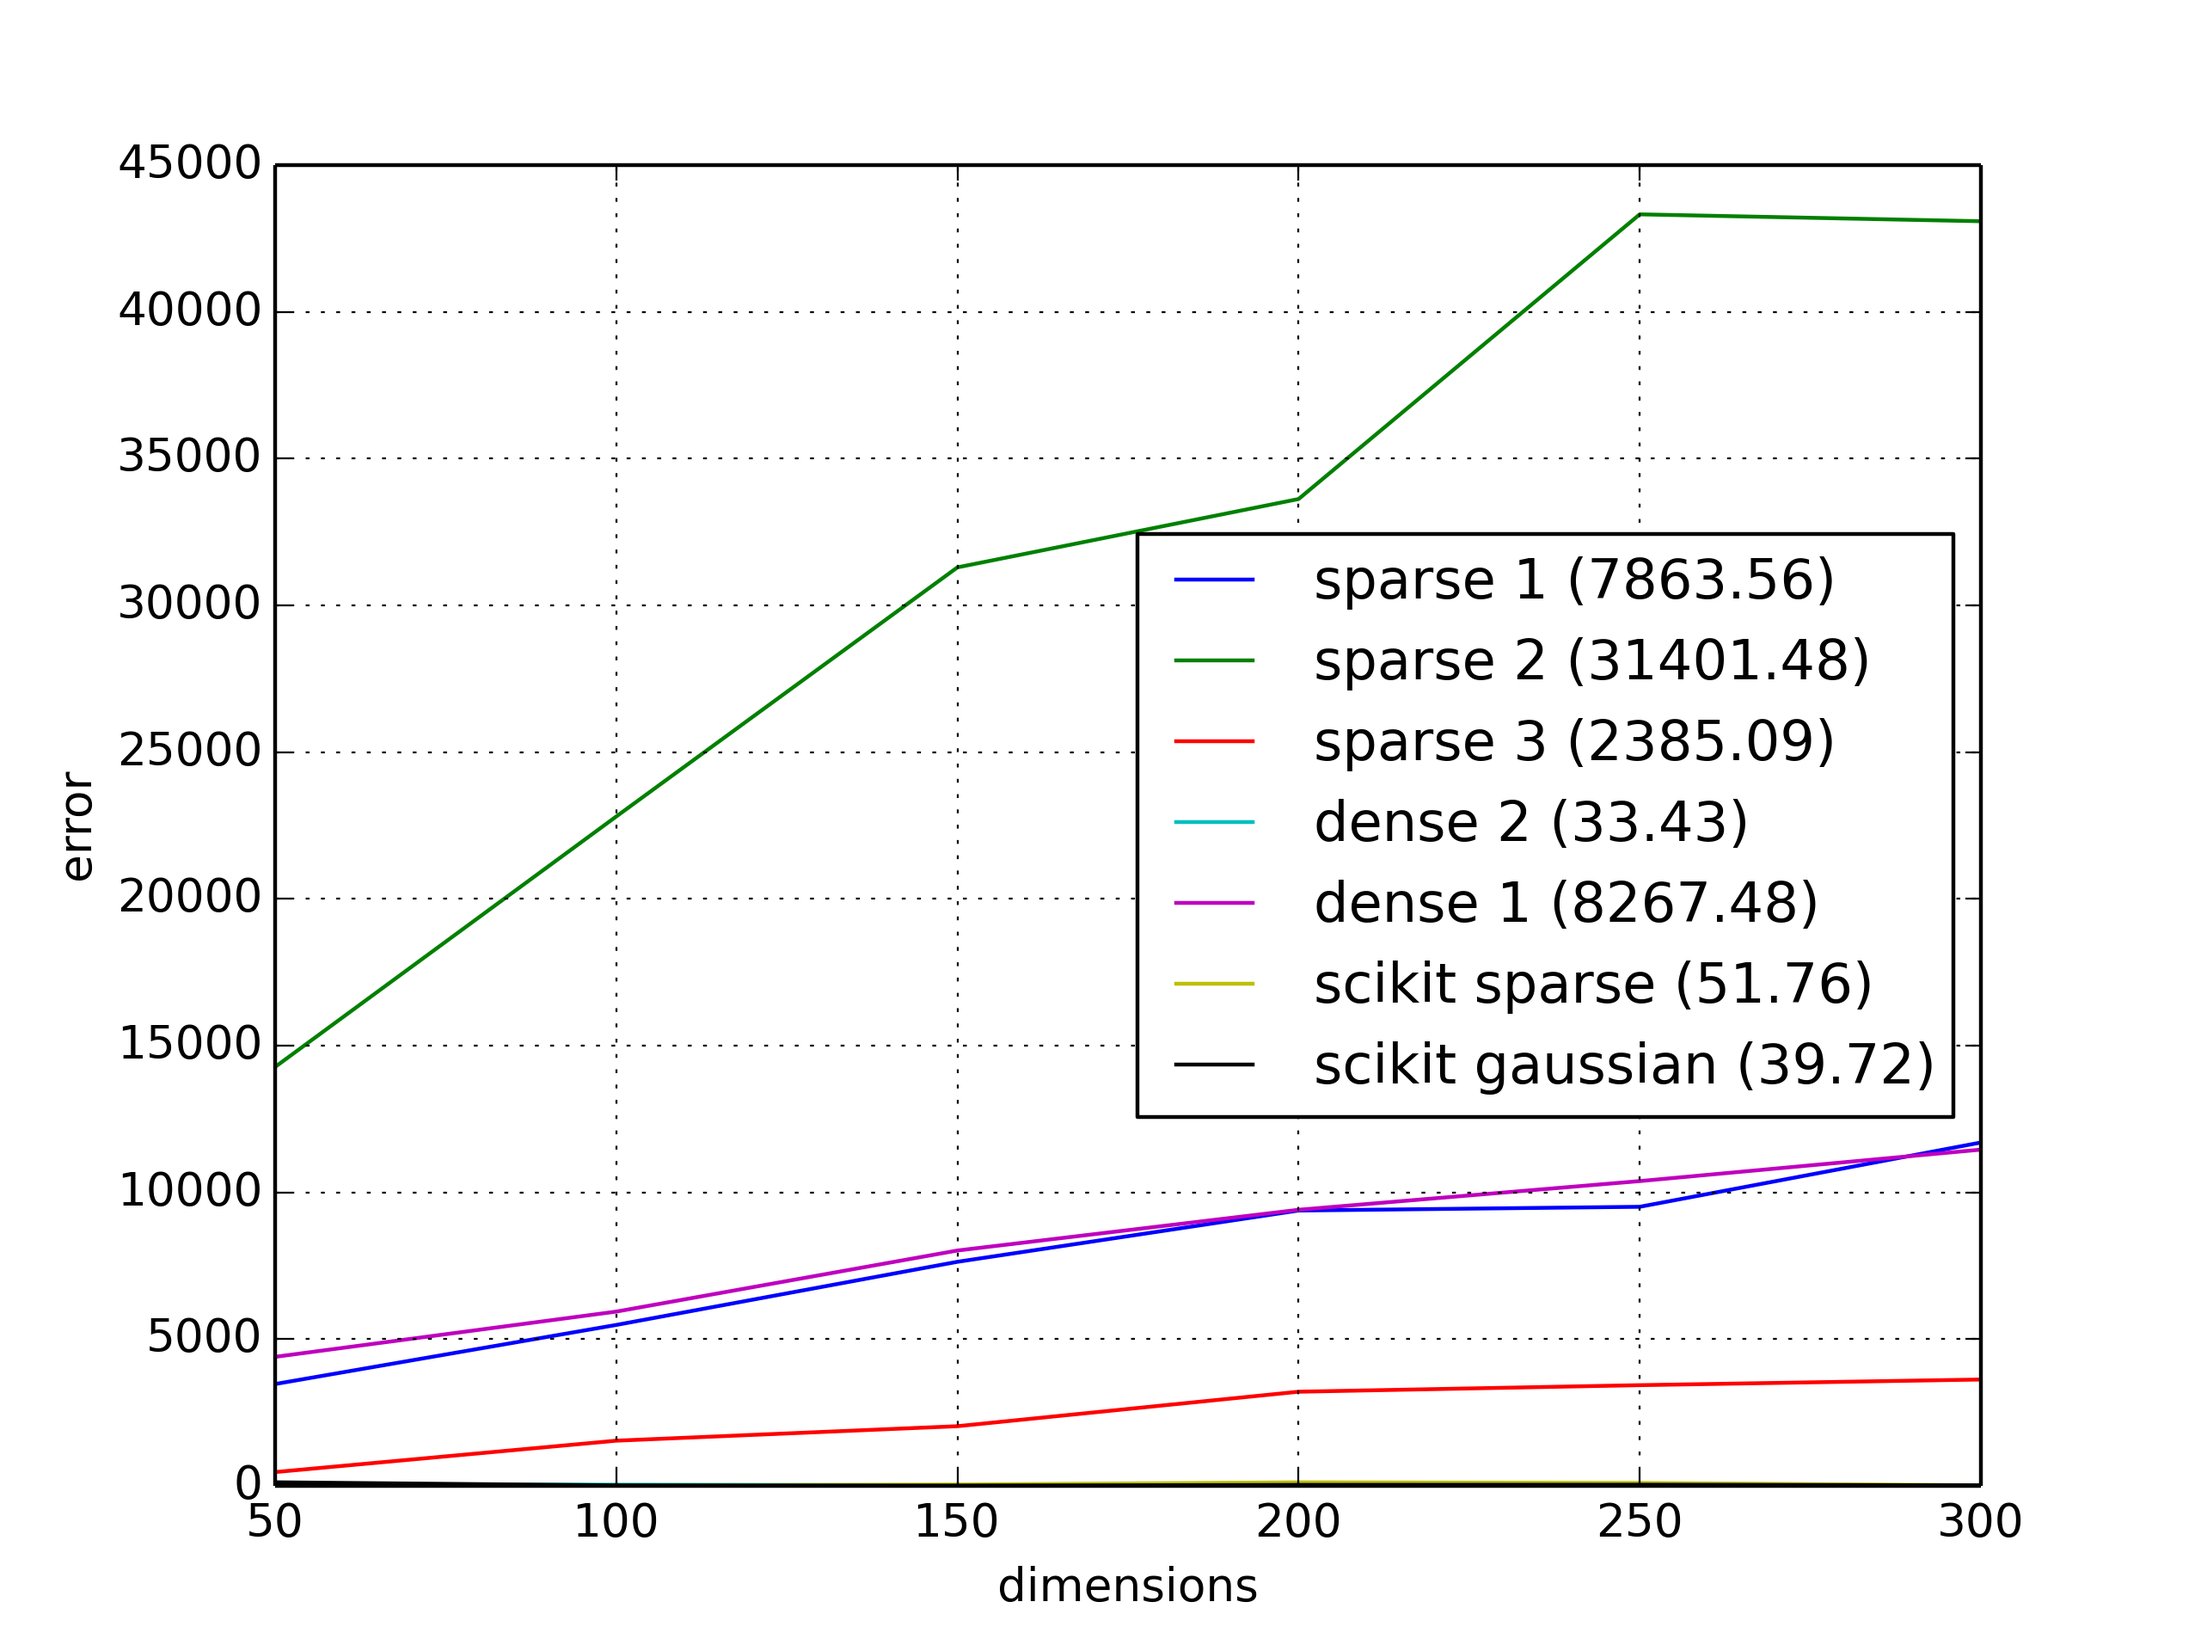
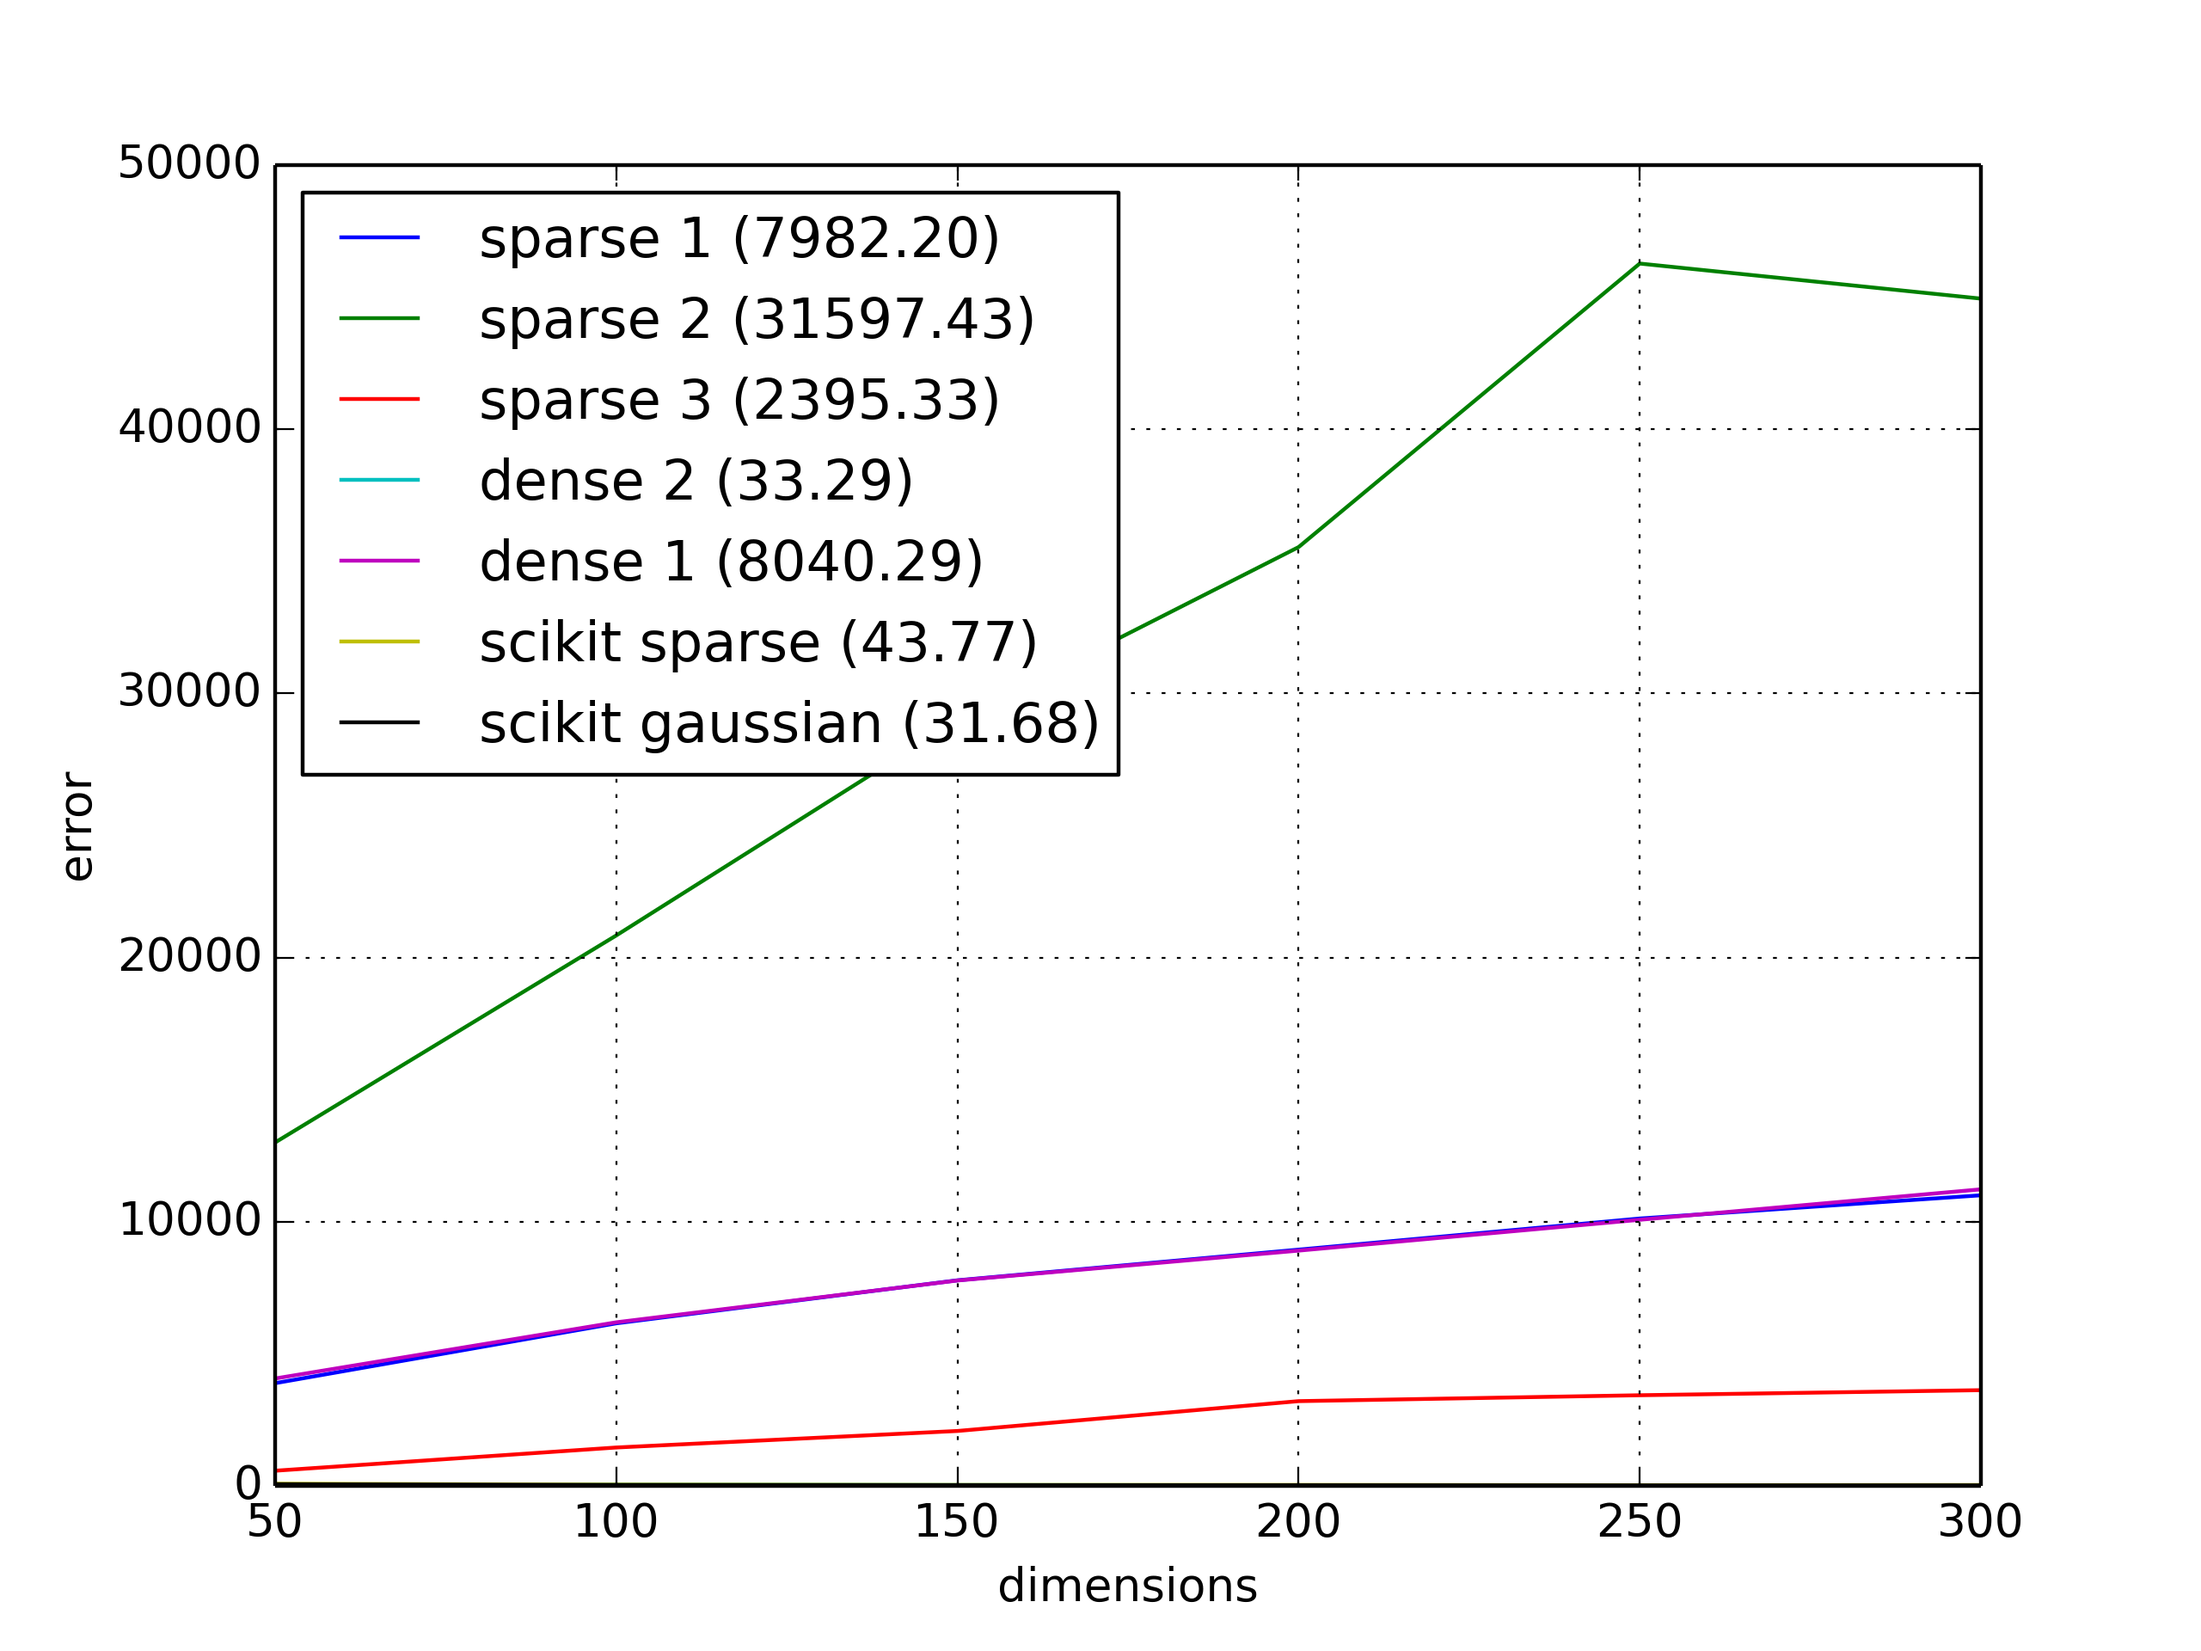
clean code, avg over 20 runs

diff --git a/random-projection/quality-distances.py b/random-projection/quality-distances.py
@@ -39,40 +39,26 @@ def runExperiment(setup):
     customDistributions = setup["customDistributions"]
     scikitImplementations = setup["scikitImplementations"]
     data = setup["data"]
-
     data, _,_,_ = data()
     orig_shape = np.shape(data)
     print "orig rows / cols: %s/%s " % (orig_shape[0], orig_shape[1])
-    best_dimension = johnson_lindenstrauss_min_dim(orig_shape[1])
-    print "best dimension: %s " % best_dimension
-
-
-    #dimensions = [best_dimension * 0.2, best_dimension * 0.4, best_dimension * 0.6, best_dimension * 0.8,
-    #              best_dimension,
-    #              best_dimension * 1.4, best_dimension * 1.4, best_dimension * 1.6, best_dimension * 1.8]
-
     dimensions = np.arange(50, 350, 50)
-
     plt.xlabel("dimensions")
     plt.ylabel("error")
-
     plt.grid()
-
     for key in customDistributions:
         dist = customDistributions[key]
-
         errors = []
         for dimension in dimensions:
-            # randomMatrix = rp.buildMatrix(orig_shape[1], dimension, dist)
-            randomMatrix = dist(orig_shape[0], orig_shape[1], dimension)
-
-
-            # dd = np.mat(data)
-            if isinstance(randomMatrix, np.ndarray):
-                randomMatrix = csr_matrix(randomMatrix)
-            reduced = data * randomMatrix
-            error = getError(data, reduced)
-            errors.append(error)
+            avg_errors = []
+            for k in range(0, 20):
+                randomMatrix = dist(orig_shape[0], orig_shape[1], dimension)
+                if isinstance(randomMatrix, np.ndarray):
+                    randomMatrix = csr_matrix(randomMatrix)
+                reduced = data * randomMatrix
+                error = getError(data, reduced)
+                avg_errors.append(error)
+            errors.append(np.mean(avg_errors))
         print "%s: %s" % (key, errors)
         plt.plot(dimensions, errors, label="%s (%.2f)" %(key, np.mean(errors)))
 
@@ -80,10 +66,15 @@ def runExperiment(setup):
     for key in scikitImplementations:
         errors = []
         for dimension in dimensions:
-            action = scikitImplementations[key]
-            reduced = action(data, int(dimension))
-            error = getError(data, reduced)
-            errors.append(error)
+
+            avg_errors = []
+            for k in range(0, 20):
+
+                action = scikitImplementations[key]
+                reduced = action(data, int(dimension))
+                error = getError(data, reduced)
+                avg_errors.append(error)
+            errors.append(np.mean(avg_errors))
         print "%s: %s" % (key, np.mean(errors))
         plt.plot(dimensions, errors, label="%s (%.2f)" %(key, np.mean(errors)))
 
@@ -151,4 +142,4 @@ experiment8["id"] = 8
 experiment8["data"] = getThirdPlistaData
 
 
-runExperiment(experiment8)
+runExperiment(experiment5)

diff --git a/random-projection/compare_distributions.py b/random-projection/compare_distributions.py
@@ -6,7 +6,7 @@ import scikit_rp
 import numpy as np
 
 rows = 570
-columns     = 3000
+columns = 3000
 
 dist = distributions.dense_2
 matrixA = rp.buildMatrix(rows, columns, dist)
